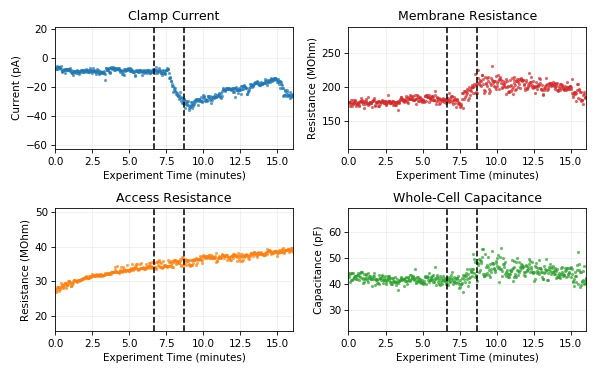
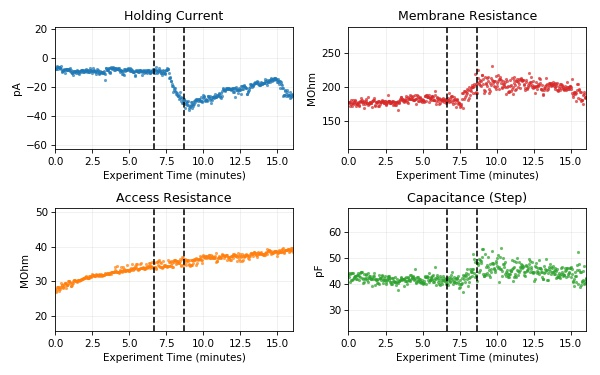
update quickstart guide for new memtest API

diff --git a/tests/tests/gettingStarted.py b/tests/tests/gettingStarted.py
@@ -829,34 +829,34 @@ class UseCaseManager:
         import pyabf.tools.memtest
         
         abf = pyabf.ABF("data/abfs/vc_drug_memtest.abf")
-        Ihs, Rms, Ras, Cms = pyabf.tools.memtest.step_valuesBySweep(abf)
+        memtest = pyabf.tools.memtest.Memtest(abf)
 
         # That's it! The rest of the code just plots these 4 numpy arrays.
         fig = plt.figure(figsize=self.figsize)
 
         ax1 = fig.add_subplot(221)
         ax1.grid(alpha=.2)
-        ax1.plot(abf.sweepTimesMin, Ihs, ".", color='C0', alpha=.7, mew=0)
-        ax1.set_title("Clamp Current")
-        ax1.set_ylabel("Current (pA)")
+        ax1.plot(abf.sweepTimesMin, memtest.Ih.values, ".", color='C0', alpha=.7, mew=0)
+        ax1.set_title(memtest.Ih.name)
+        ax1.set_ylabel(memtest.Ih.units)
 
         ax2 = fig.add_subplot(222)
         ax2.grid(alpha=.2)
-        ax2.plot(abf.sweepTimesMin, Rms, ".", color='C3', alpha=.7, mew=0)
-        ax2.set_title("Membrane Resistance")
-        ax2.set_ylabel("Resistance (MOhm)")
+        ax2.plot(abf.sweepTimesMin, memtest.Rm.values, ".", color='C3', alpha=.7, mew=0)
+        ax2.set_title(memtest.Rm.name)
+        ax2.set_ylabel(memtest.Rm.units)
 
         ax3 = fig.add_subplot(223)
         ax3.grid(alpha=.2)
-        ax3.plot(abf.sweepTimesMin, Ras, ".", color='C1', alpha=.7, mew=0)
-        ax3.set_title("Access Resistance")
-        ax3.set_ylabel("Resistance (MOhm)")
+        ax3.plot(abf.sweepTimesMin, memtest.Ra.values, ".", color='C1', alpha=.7, mew=0)
+        ax3.set_title(memtest.Ra.name)
+        ax3.set_ylabel(memtest.Ra.units)
 
         ax4 = fig.add_subplot(224)
         ax4.grid(alpha=.2)
-        ax4.plot(abf.sweepTimesMin, Cms, ".", color='C2', alpha=.7, mew=0)
-        ax4.set_title("Whole-Cell Capacitance")
-        ax4.set_ylabel("Capacitance (pF)")
+        ax4.plot(abf.sweepTimesMin, memtest.CmStep.values, ".", color='C2', alpha=.7, mew=0)
+        ax4.set_title(memtest.CmStep.name)
+        ax4.set_ylabel(memtest.CmStep.units)
 
         for ax in [ax1, ax2, ax3, ax4]:
             ax.margins(0, .9)

diff --git a/tests/runTests.py b/tests/runTests.py
@@ -23,6 +23,9 @@ import importlib.util
 import warnings
 import glob
 
+import pyabf
+import pyabf.tools.memtest
+
 if not os.path.exists("LICENSE") and not os.path.exists(".gitignore"):
     raise Exception("run tests script from the root folder")
 
@@ -88,7 +91,6 @@ if __name__ == "__main__":
     runFunctionInFile(PATH_PROJECT+"/tests/tests/api.py")
     runFunctionInFile(PATH_PROJECT+"/tests/tests/valueChecks.py")
     runFunctionInFile(PATH_PROJECT+"/tests/tests/testHeaders.py")
-    #runFunctionInFile(PATH_PROJECT+"/tests/tests/moduleTests.py")
 
     # test against python2 and python3
     testInterpreter(R"C:\Users\scott\Anaconda3\python.exe")

diff --git a/tests/tests/valueChecks.py b/tests/tests/valueChecks.py
@@ -85,6 +85,7 @@ FIRSTVALUES['vc_drug_memtest'] = ['-7.20215']
 FIRSTVALUES['190619B_0003'] = ['-65.91796', '-18.92090']
 FIRSTVALUES['19212027'] = ['-197.14355', '-70.55664']
 FIRSTVALUES['multichannelAbf1WithTags'] = ['0.85449', '-49.98370']
+FIRSTVALUES['H19_29_150_11_21_01_0011'] = ['-67.95654', '-0.48828']
 
 def go():
     print("Checking first values ", end="")

diff --git a/docs/getting-started/advanced.md b/docs/getting-started/advanced.md
@@ -224,34 +224,34 @@ import pyabf
 import pyabf.tools.memtest
 
 abf = pyabf.ABF("vc_drug_memtest.abf")
-Ihs, Rms, Ras, Cms = pyabf.tools.memtest.step_valuesBySweep(abf)
+memtest = pyabf.tools.memtest.Memtest(abf)
 
 # That's it! The rest of the code just plots these 4 numpy arrays.
 fig = plt.figure(figsize=(8, 5))
 
 ax1 = fig.add_subplot(221)
 ax1.grid(alpha=.2)
-ax1.plot(abf.sweepTimesMin, Ihs, ".", color='C0', alpha=.7, mew=0)
-ax1.set_title("Clamp Current")
-ax1.set_ylabel("Current (pA)")
+ax1.plot(abf.sweepTimesMin, memtest.Ih.values, ".", color='C0', alpha=.7, mew=0)
+ax1.set_title(memtest.Ih.name)
+ax1.set_ylabel(memtest.Ih.units)
 
 ax2 = fig.add_subplot(222)
 ax2.grid(alpha=.2)
-ax2.plot(abf.sweepTimesMin, Rms, ".", color='C3', alpha=.7, mew=0)
-ax2.set_title("Membrane Resistance")
-ax2.set_ylabel("Resistance (MOhm)")
+ax2.plot(abf.sweepTimesMin, memtest.Rm.values, ".", color='C3', alpha=.7, mew=0)
+ax2.set_title(memtest.Rm.name)
+ax2.set_ylabel(memtest.Rm.units)
 
 ax3 = fig.add_subplot(223)
 ax3.grid(alpha=.2)
-ax3.plot(abf.sweepTimesMin, Ras, ".", color='C1', alpha=.7, mew=0)
-ax3.set_title("Access Resistance")
-ax3.set_ylabel("Resistance (MOhm)")
+ax3.plot(abf.sweepTimesMin, memtest.Ra.values, ".", color='C1', alpha=.7, mew=0)
+ax3.set_title(memtest.Ra.name)
+ax3.set_ylabel(memtest.Ra.units)
 
 ax4 = fig.add_subplot(224)
 ax4.grid(alpha=.2)
-ax4.plot(abf.sweepTimesMin, Cms, ".", color='C2', alpha=.7, mew=0)
-ax4.set_title("Whole-Cell Capacitance")
-ax4.set_ylabel("Capacitance (pF)")
+ax4.plot(abf.sweepTimesMin, memtest.CmStep.values, ".", color='C2', alpha=.7, mew=0)
+ax4.set_title(memtest.CmStep.name)
+ax4.set_ylabel(memtest.CmStep.units)
 
 for ax in [ax1, ax2, ax3, ax4]:
     ax.margins(0, .9)
